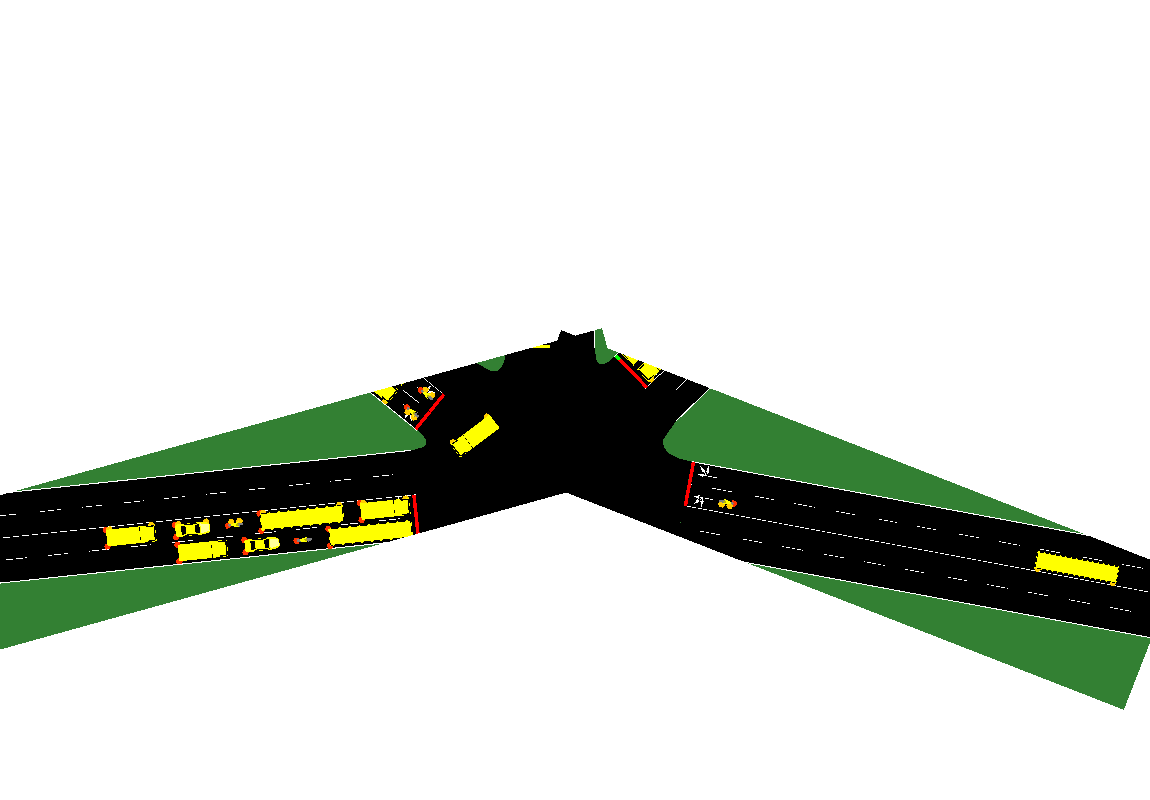
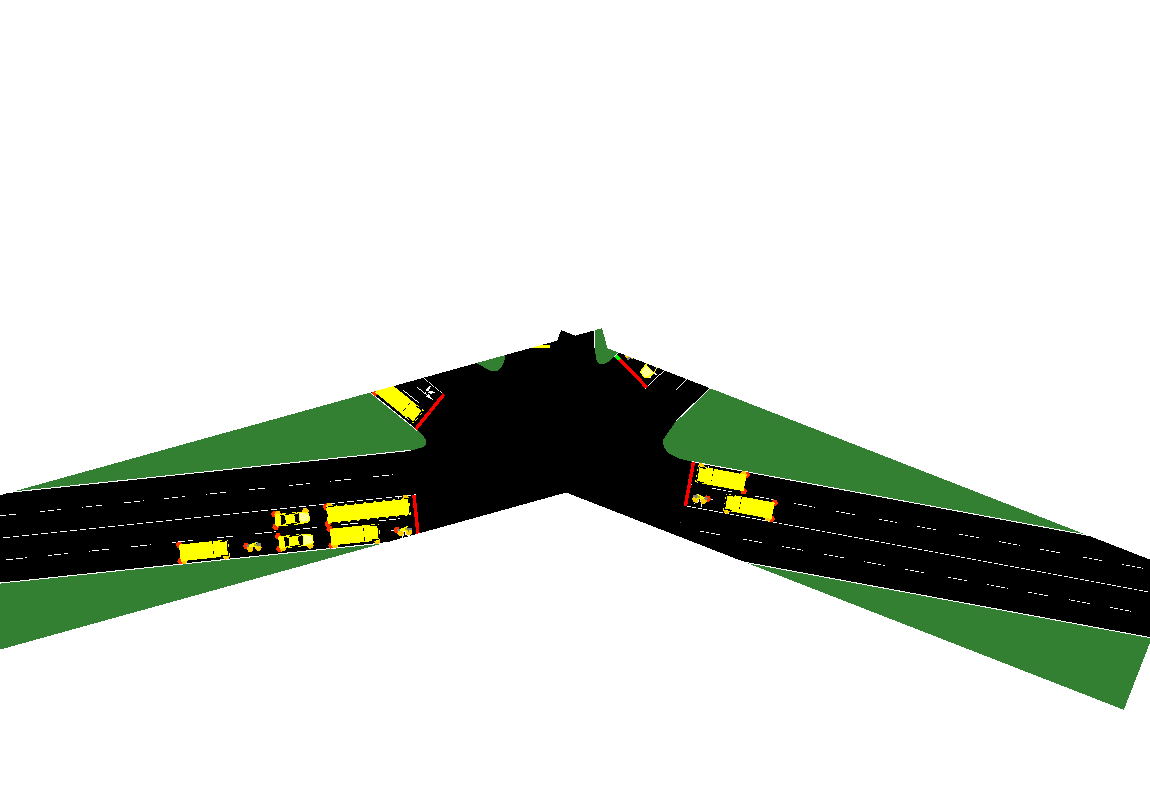
Fully updated

diff --git a/Sumo/traci/runner.py b/Sumo/traci/runner.py
@@ -88,7 +88,7 @@ def run(lane_number):
     traffic_light_id = get_traffic_light_id(lane_number)
     step = 0
     total_waiting_time = 0
-    total_travel_time = 0
+    # total_travel_time = 0
     red_light_time = None
     last_phase = -1
     dt = Detect()
@@ -101,194 +101,173 @@ def run(lane_number):
 
     while traci.simulation.getMinExpectedNumber() > 0:
         traci.simulationStep()
-        # current_phase = traci.trafficlight.getPhase(tlc.trafficlight_id)
-        # num_phases = get_traffic_light_phases(tlc.trafficlight_id)  # Lấy số lượng giai đoạn
+        current_phase = traci.trafficlight.getPhase(tlc.trafficlight_id)
+        num_phases = get_traffic_light_phases(tlc.trafficlight_id)  # Lấy số lượng giai đoạn
 
-        # if current_phase != last_phase:
-        #     # Kiểm tra nếu current_phase là giai đoạn cuối cùng
-        #     if current_phase == num_phases - 1:
-        #         # Xử lý đặc biệt cho giai đoạn cuối cùng
-        #         pass  # Thêm logic xử lý ở đây nếu cần
-        #     else:
-        #         tlc.update_vehicle_counts(current_phase)
-        #     last_phase = current_phase
+        if current_phase != last_phase:
+            # Kiểm tra nếu current_phase là giai đoạn cuối cùng
+            if current_phase == num_phases - 1:
+                # Xử lý đặc biệt cho giai đoạn cuối cùng
+                pass  # Thêm logic xử lý ở đây nếu cần
+            else:
+                tlc.update_vehicle_counts(current_phase)
+            last_phase = current_phase
 
-        # if red_light_time == 2:
-        #     print("\nChup hinh doi pha")
-        #     # phân loại mật độ giao thông
-        #     screen = cp.capture_screen()
-        #     result = dt.predict(screen)
-        #     weight = dt.calculate_weight(result)
+        if red_light_time == 2:
+            # phân loại mật độ giao thông
+            screen = cp.capture_screen()
+            result = dt.predict(screen)
+            weight = dt.calculate_weight(result)
 
-        #     if weight == 0:
-        #         weight = 1
+            if weight == 0:
+                weight = 1
             
-        #     if(weight < 18 * num_ways/4):
-        #         c_min = 20  # Minimum cycle length in seconds
-        #         c_max = 15*num_ways  # Maximum cycle length in seconds
-        #         print('vang')
-        #     elif (weight < 39 * num_ways/4):
-        #         c_min = 40
-        #         c_max = 20*num_ways
-        #         print('it')
-        #     else:
-        #         c_min = 60
-        #         c_max = 25*num_ways
-        #         print('dong')
+            if(weight < 18 * num_ways/4):
+                c_min = 20  # Minimum cycle length in seconds
+                c_max = 15*num_ways  # Maximum cycle length in seconds
+                print('\nCurrent traffic density: Very less crowded')
+            elif (weight < 39 * num_ways/4):
+                c_min = 40
+                c_max = 20*num_ways
+                print('\nCurrent traffic density: Less crowded')
+            else:
+                c_min = 60
+                c_max = 25*num_ways
+                print('\nCurrent traffic density: Crowded')
 
-        #     if num_ways == 3:       #ngã 3
-        #         y_crit_value = [tlc.calculate_y_crit(sat_flow)]  # Consider using dynamic saturation flow values
-        #         total_time = websters(y_crit_value, L, c_min, c_max, num_ways)
-        #         print("Total time: ",total_time, "y_crit_value: ", y_crit_value)
-
-        #         horizontal_road_image, vertical_road_image = cp.capture_road3T(screen)
-        #         horizontal_result = dt.predict( horizontal_road_image)
-        #         vertical_result = dt.predict( vertical_road_image)
-        #         horizontal_weight = dt.calculate_weight(horizontal_result)
-        #         vertical_weight = dt.calculate_weight(vertical_result)
+            y_crit_value = [tlc.calculate_y_crit(sat_flow)]  # Consider using dynamic saturation flow values
+            total_time = websters(y_crit_value, L, c_min, c_max, num_ways)
+            # print("Total time:",total_time)
+            
+            if num_ways == 3:       #ngã 3
+                horizontal_road_image, vertical_road_image = cp.capture_road3T(screen)
+                horizontal_result = dt.predict( horizontal_road_image)
+                vertical_result = dt.predict( vertical_road_image)
+                horizontal_weight = dt.calculate_weight(horizontal_result)
+                vertical_weight = dt.calculate_weight(vertical_result)
                 
-        #         time1 = round((horizontal_weight /weight) * total_time)
-        #         time2 = round((vertical_weight /weight) * total_time)
-        #         phases = tlc.create_phases_3(time1, time2)
-        #         tlc.set_traffic_light_cycle( phases)
+                time1 = round((horizontal_weight /weight) * total_time)
+                time2 = round((vertical_weight /weight) * total_time)
+                phases = tlc.create_phases_3(time1, time2)
+                tlc.set_traffic_light_cycle( phases)
 
-        #         print("Ngang:", str(horizontal_weight) +' time ngang:'+ str(time1), "Doc", str(vertical_weight) +' time doc:'+ str(time2))
+                print("Horizontal Weight:", str(horizontal_weight) +'- Time:'+ str(time1), "   Vertical Weight", str(vertical_weight) +'- Time:'+ str(time2))
                             
-        #     elif num_ways == 4:         #Ngã 4
-        #         y_crit_value = [tlc.calculate_y_crit(sat_flow)]  # Consider using dynamic saturation flow values
-        #         total_time = websters(y_crit_value, L, c_min, c_max, num_ways)
-        #         print("Total time: ",total_time, "y_crit_value: ", y_crit_value)
+            elif num_ways == 4:         #Ngã 4
+                horizontal_road_image, vertical_road_image = cp.capture_road4(screen)
+                horizontal_result = dt.predict( horizontal_road_image)
+                vertical_result = dt.predict( vertical_road_image)
+                horizontal_weight = dt.calculate_weight(horizontal_result)
+                vertical_weight = dt.calculate_weight(vertical_result)
                 
+                time2 = round((horizontal_weight /weight) * total_time)
+                time1 = round((vertical_weight /weight) * total_time)
+                phases = tlc.create_phases_4(time1, time2)
+                tlc.set_traffic_light_cycle( phases)
 
-        #         horizontal_road_image, vertical_road_image = cp.capture_road4(screen)
-        #         horizontal_result = dt.predict( horizontal_road_image)
-        #         vertical_result = dt.predict( vertical_road_image)
-        #         horizontal_weight = dt.calculate_weight(horizontal_result)
-        #         vertical_weight = dt.calculate_weight(vertical_result)
-                
-        #         time2 = round((horizontal_weight /weight) * total_time)
-        #         time1 = round((vertical_weight /weight) * total_time)
-        #         phases = tlc.create_phases_4(time1, time2)
-        #         tlc.set_traffic_light_cycle( phases)
+                print("Horizontal Weight:", str(horizontal_weight) +'- Time:'+ str(time2), "   Vertical Weight", str(vertical_weight) +'- Time:'+ str(time1))
 
-        #         print("Ngang:", str(horizontal_weight) +' time ngang:'+ str(time1), "Doc", str(vertical_weight) +' time doc:'+ str(time2))
-
-        #     elif num_ways == 5:
-        #         y_crit_value = [tlc.calculate_y_crit(sat_flow)]  # Consider using dynamic saturation flow values
-        #         total_time = websters(y_crit_value, L, c_min, c_max, num_ways)
-        #         print("Total time: ",total_time, "y_crit_value: ", y_crit_value)
+            elif num_ways == 5:
+                X_road_image, Y_road_image, Z_road_image, W_road_image = cp.capture_road5(screen)
+                X_result = dt.predict( X_road_image)
+                Y_result = dt.predict( Y_road_image)
+                Z_result = dt.predict( Z_road_image)
+                W_result = dt.predict( W_road_image)
+                X_weight = dt.calculate_weight(X_result)
+                Y_weight = dt.calculate_weight(Y_result)
+                Z_weight = dt.calculate_weight(Z_result)
+                W_weight = dt.calculate_weight(W_result)
                 
-        #         X_road_image, Y_road_image, Z_road_image, W_road_image = cp.capture_road5(screen)
-        #         X_result = dt.predict( X_road_image)
-        #         Y_result = dt.predict( Y_road_image)
-        #         Z_result = dt.predict( Z_road_image)
-        #         W_result = dt.predict( W_road_image)
-        #         X_weight = dt.calculate_weight(X_result)
-        #         Y_weight = dt.calculate_weight(Y_result)
-        #         Z_weight = dt.calculate_weight(Z_result)
-        #         W_weight = dt.calculate_weight(W_result)
-                
-        #         time1 = round((X_weight /weight) * total_time)
-        #         time2 = round((Y_weight /weight) * total_time)
-        #         time3 = round((Z_weight /weight) * total_time)
-        #         time4 = round((W_weight /weight) * total_time)
-        #         phases =tlc.create_phases_5(time1, time2, time3, time4)
-        #         tlc.set_traffic_light_cycle( phases)
+                time1 = round((X_weight /weight) * total_time)
+                time2 = round((Y_weight /weight) * total_time)
+                time3 = round((Z_weight /weight) * total_time)
+                time4 = round((W_weight /weight) * total_time)
+                phases =tlc.create_phases_5(time1, time2, time3, time4)
+                tlc.set_traffic_light_cycle( phases)
 
 
-        #     elif num_ways == 6:
-        #         y_crit_value = [tlc.calculate_y_crit(sat_flow)]  # Consider using dynamic saturation flow values
-        #         total_time = websters(y_crit_value, L, c_min, c_max, num_ways)
-        #         print("Total time: ",total_time, "y_crit_value: ", y_crit_value)
+            elif num_ways == 6:
+                image_1, image_2, image_3 = cp.capture_road6(screen)
+                image_1_result = dt.predict( image_1)
+                image_2_result = dt.predict( image_2)
+                image_3_result = dt.predict( image_3)
+                image_1_weight = dt.calculate_weight(image_1_result)
+                image_2_weight = dt.calculate_weight(image_2_result)
+                image_3_weight = dt.calculate_weight(image_3_result)
                 
-        #         image_1, image_2, image_3 = cp.capture_road6(screen)
-        #         image_1_result = dt.predict( image_1)
-        #         image_2_result = dt.predict( image_2)
-        #         image_3_result = dt.predict( image_3)
-        #         image_1_weight = dt.calculate_weight(image_1_result)
-        #         image_2_weight = dt.calculate_weight(image_2_result)
-        #         image_3_weight = dt.calculate_weight(image_3_result)
+                time1 = round((image_1_weight /weight) * total_time)
+                time2 = round((image_2_weight /weight) * total_time)
+                time3 = round((image_3_weight /weight) * total_time)
+                phases =tlc.create_phases_6(time1, time2, time3)
+                tlc.set_traffic_light_cycle( phases)
                 
-        #         time1 = round((image_1_weight /weight) * total_time)
-        #         time2 = round((image_2_weight /weight) * total_time)
-        #         time3 = round((image_3_weight /weight) * total_time)
-        #         phases =tlc.create_phases_6(time1, time2, time3)
-        #         tlc.set_traffic_light_cycle( phases)
-                
-        #         print("Image 1:", str(image_1_weight) +' time 1:'+ str(time1), "Image 2", str(image_2_weight) +' time 2:'+ str(time2), "Image 3", str(image_3_weight) +' time 3:'+ str(time3))
+                print("Phase 1:", str(image_1_weight) +' - Time 1:'+ str(time1), "Phase 2", str(image_2_weight) +' - Time 2:'+ str(time2), "Phase 3", str(image_3_weight) +' - Time 3:'+ str(time3))
 
 
-        #     elif num_ways == 7:
-        #         y_crit_value = [tlc.calculate_y_crit(sat_flow)]  # Consider using dynamic saturation flow values
-        #         total_time = websters(y_crit_value, L, c_min, c_max, num_ways)
-        #         print("Total time: ",total_time, "y_crit_value: ", y_crit_value)
-                
-        #         image_1, image_2, image_3, image_4 = cp.capture_road7(screen)
-        #         image_1_result = dt.predict( image_1)
-        #         image_2_result = dt.predict( image_2)
-        #         image_3_result = dt.predict( image_3)
-        #         image_4_result = dt.predict( image_4)
-        #         image_1_weight = dt.calculate_weight(image_1_result)
-        #         image_2_weight = dt.calculate_weight(image_2_result)
-        #         image_3_weight = dt.calculate_weight(image_3_result)
-        #         image_4_weight = dt.calculate_weight(image_4_result)
+            elif num_ways == 7:
+                image_1, image_2, image_3, image_4 = cp.capture_road7(screen)
+                image_1_result = dt.predict( image_1)
+                image_2_result = dt.predict( image_2)
+                image_3_result = dt.predict( image_3)
+                image_4_result = dt.predict( image_4)
+                image_1_weight = dt.calculate_weight(image_1_result)
+                image_2_weight = dt.calculate_weight(image_2_result)
+                image_3_weight = dt.calculate_weight(image_3_result)
+                image_4_weight = dt.calculate_weight(image_4_result)
                     
-        #         time1 = round((image_1_weight /weight) * total_time)
-        #         time2 = round((image_2_weight /weight) * total_time)
-        #         time3 = round((image_3_weight /weight) * total_time)
-        #         time4 = round((image_4_weight /weight) * total_time)
-        #         phases =tlc.create_phases_7(time1, time2, time3, time4)
-        #         tlc.set_traffic_light_cycle( phases)
+                time1 = round((image_1_weight /weight) * total_time)
+                time2 = round((image_2_weight /weight) * total_time)
+                time3 = round((image_3_weight /weight) * total_time)
+                time4 = round((image_4_weight /weight) * total_time)
+                phases =tlc.create_phases_7(time1, time2, time3, time4)
+                tlc.set_traffic_light_cycle( phases)
                     
-        #         print("Image 1:", str(image_1_weight) +' time 1:'+ str(time1), "Image 2", str(image_2_weight) +' time 2:'+ str(time2), "Image 3", str(image_3_weight) +' time 3:'+ str(time3), "Image 4", str(image_4_weight) +' time 4:'+ str(time4))
+                print("Phase 1:", str(image_1_weight) +' - Time 1:'+ str(time1), "Phase 2", str(image_2_weight) +' - Time 2:'+ str(time2), "Phase 3", str(image_3_weight) +' - Time 3:'+ str(time3), "Phase 4", str(image_4_weight) +' - Time 4:'+ str(time4))
 
-        # if num_ways == 3 or num_ways == 4:
-        #     if traci.trafficlight.getPhase(tlc.trafficlight_id) == 3:
-        #         # Nếu đèn giao thông là đèn đỏ
-        #         if red_light_time is None or red_light_time > 2:
-        #             print(traci.trafficlight.getNextSwitch(tlc.trafficlight_id) - traci.simulation.getTime())
-        #             print( "Next switch: ", traci.trafficlight.getNextSwitch(tlc.trafficlight_id))
-        #             print( "Current time: ", traci.simulation.getTime())
-        #             red_light_time = traci.trafficlight.getNextSwitch(tlc.trafficlight_id) - traci.simulation.getTime()
-        #     else:
-        #         # Nếu đèn giao thông không phải là đèn đỏ, đặt lại red_light_time
-        #         red_light_time = None
-        # elif num_ways == 5:
-        #     if traci.trafficlight.getPhase(tlc.trafficlight_id) == 9:
-        #         # Nếu đèn giao thông là đèn đỏ
-        #         if red_light_time is None or red_light_time > 2:
-        #             print(traci.trafficlight.getNextSwitch(tlc.trafficlight_id) - traci.simulation.getTime())
-        #             red_light_time = traci.trafficlight.getNextSwitch(tlc.trafficlight_id) - traci.simulation.getTime()
-        #     else:
-        #         # Nếu đèn giao thông không phải là đèn đỏ, đặt lại red_light_time
-        #         red_light_time = None
-        # elif num_ways == 6:
-        #     if traci.trafficlight.getPhase(tlc.trafficlight_id) == 11:
-        #         # Nếu đèn giao thông là đèn đỏ
-        #         if red_light_time is None or red_light_time > 2:
-        #             print(traci.trafficlight.getNextSwitch(tlc.trafficlight_id) - traci.simulation.getTime())
-        #             red_light_time = traci.trafficlight.getNextSwitch(tlc.trafficlight_id) - traci.simulation.getTime()
-        #     else:
-        #         # Nếu đèn giao thông không phải là đèn đỏ, đặt lại red_light_time
-        #         red_light_time = None
-        # elif num_ways == 7:
-        #     if traci.trafficlight.getPhase(tlc.trafficlight_id) == 13:
-        #         # Nếu đèn giao thông là đèn đỏ
-        #         if red_light_time is None or red_light_time > 2:
-        #             print(traci.trafficlight.getNextSwitch(tlc.trafficlight_id) - traci.simulation.getTime())
-        #             red_light_time = traci.trafficlight.getNextSwitch(tlc.trafficlight_id) - traci.simulation.getTime()
-        #     else:
-        #         # Nếu đèn giao thông không phải là đèn đỏ, đặt lại red_light_time
-        #         red_light_time = None
+        if num_ways == 3 or num_ways == 4:
+            if traci.trafficlight.getPhase(tlc.trafficlight_id) == 3:
+                # Nếu đèn giao thông là đèn đỏ
+                if red_light_time is None or red_light_time > 2:
+                    red_light_time = traci.trafficlight.getNextSwitch(tlc.trafficlight_id) - traci.simulation.getTime()
+            else:
+                # Nếu đèn giao thông không phải là đèn đỏ, đặt lại red_light_time
+                red_light_time = None
+        elif num_ways == 5:
+            if traci.trafficlight.getPhase(tlc.trafficlight_id) == 9:
+                # Nếu đèn giao thông là đèn đỏ
+                if red_light_time is None or red_light_time > 2:
+                    red_light_time = traci.trafficlight.getNextSwitch(tlc.trafficlight_id) - traci.simulation.getTime()
+            else:
+                # Nếu đèn giao thông không phải là đèn đỏ, đặt lại red_light_time
+                red_light_time = None
+        elif num_ways == 6:
+            if traci.trafficlight.getPhase(tlc.trafficlight_id) == 11:
+                # Nếu đèn giao thông là đèn đỏ
+                if red_light_time is None or red_light_time > 2:
+                    red_light_time = traci.trafficlight.getNextSwitch(tlc.trafficlight_id) - traci.simulation.getTime()
+            else:
+                # Nếu đèn giao thông không phải là đèn đỏ, đặt lại red_light_time
+                red_light_time = None
+        elif num_ways == 7:
+            if traci.trafficlight.getPhase(tlc.trafficlight_id) == 13:
+                # Nếu đèn giao thông là đèn đỏ
+                if red_light_time is None or red_light_time > 2:
+                    red_light_time = traci.trafficlight.getNextSwitch(tlc.trafficlight_id) - traci.simulation.getTime()
+            else:
+                # Nếu đèn giao thông không phải là đèn đỏ, đặt lại red_light_time
+                red_light_time = None
+                
         if (step >= 600 and step <= 3600):
-            total_travel_time += tlc.calculate_travel_time()
+            
+            # total_travel_time += tlc.calculate_travel_time()
             total_waiting_time += tlc.calculate_waiting_time()
 
+            # average_travel_time = total_travel_time / step
             average_waiting_time = total_waiting_time / step
-            average_travel_time = total_travel_time / step
 
-            print("Step: ", step, "Average waiting time: ", average_waiting_time)
-            print("Step: ", step, "Average travel time: ", average_travel_time)
+            if(step % 100 == 0):
+                # print("Step: ", step, "Average travel time: ", average_travel_time)
+                print("Step:", step, "Average waiting time: ", average_waiting_time)
         step += 1
         
     traci.close()
@@ -327,7 +306,7 @@ if __name__ == "__main__":
         sumoBinary = checkBinary('sumo')
     else:
         sumoBinary = checkBinary('sumo-gui')
-    lane_number = 5
+    lane_number = 4
     path_road = get_path_road(lane_number)
     traci.start([sumoBinary, "-c", path_road])
     run(lane_number)

diff --git a/Sumo/traci/capture.py b/Sumo/traci/capture.py
@@ -8,7 +8,7 @@ class Capture:
         self.region = (300, 100, 1450, 900)
     
     def capture_screen(self):
-        hwnd = win32gui.FindWindow(None, "map7.sumocfg - SUMO 1.20.0")  # Chỉnh sửa theo tên cửa sổ ứng dụng
+        hwnd = win32gui.FindWindow(None, "map4.sumocfg - SUMO 1.20.0")  # Chỉnh sửa theo tên cửa sổ ứng dụng
 
         if hwnd:
             # Uncomment the following line if you use a high DPI display or >100% scaling size
